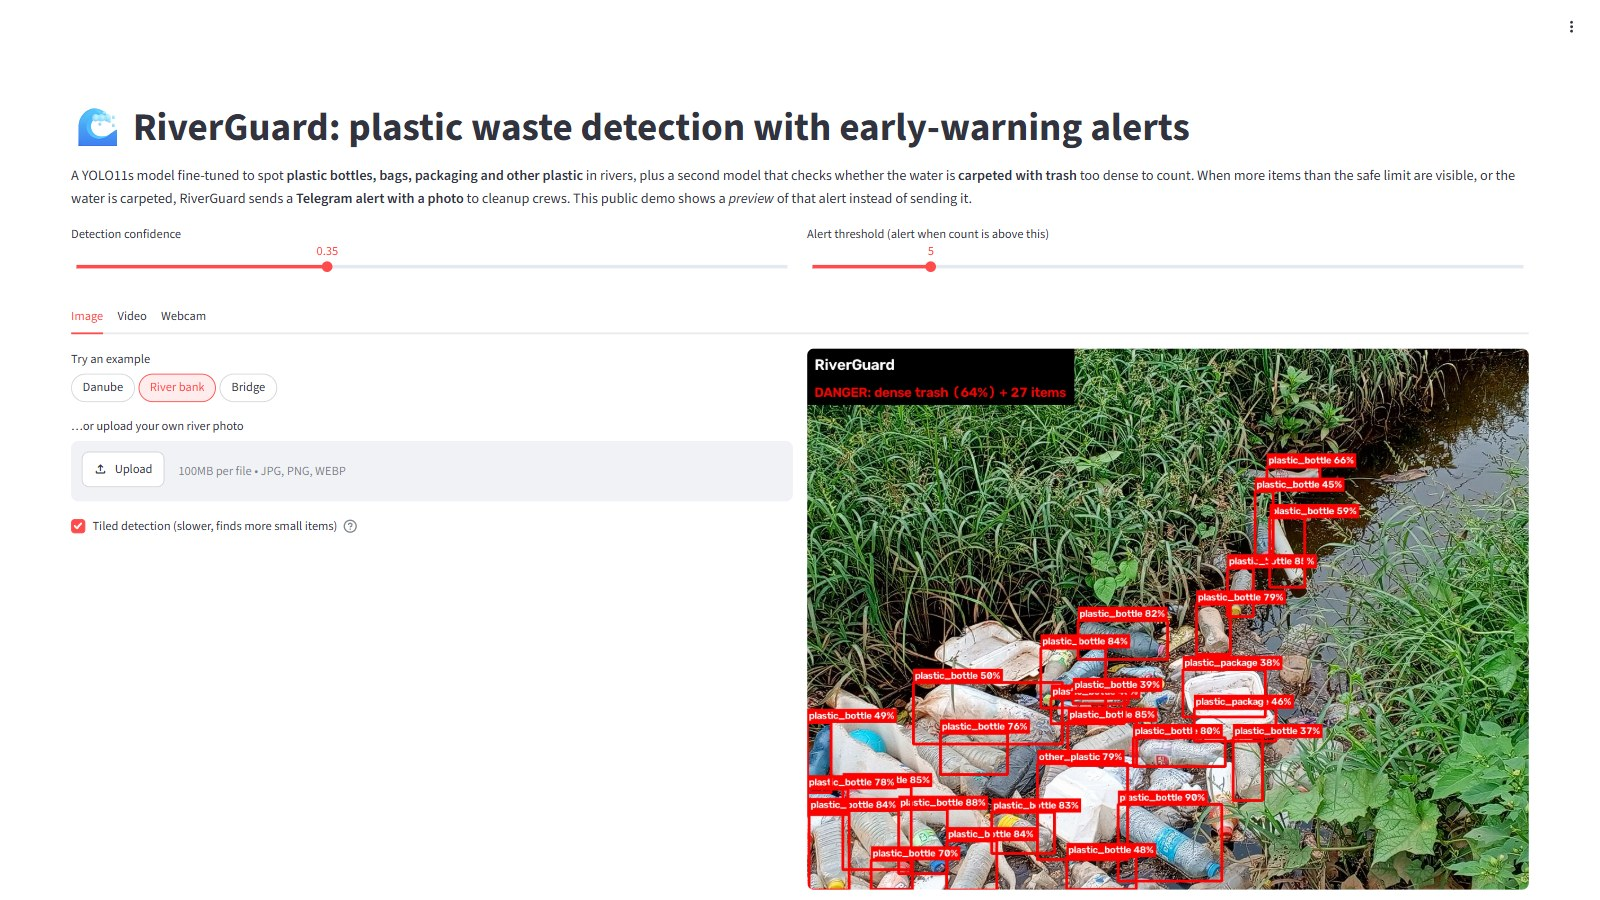
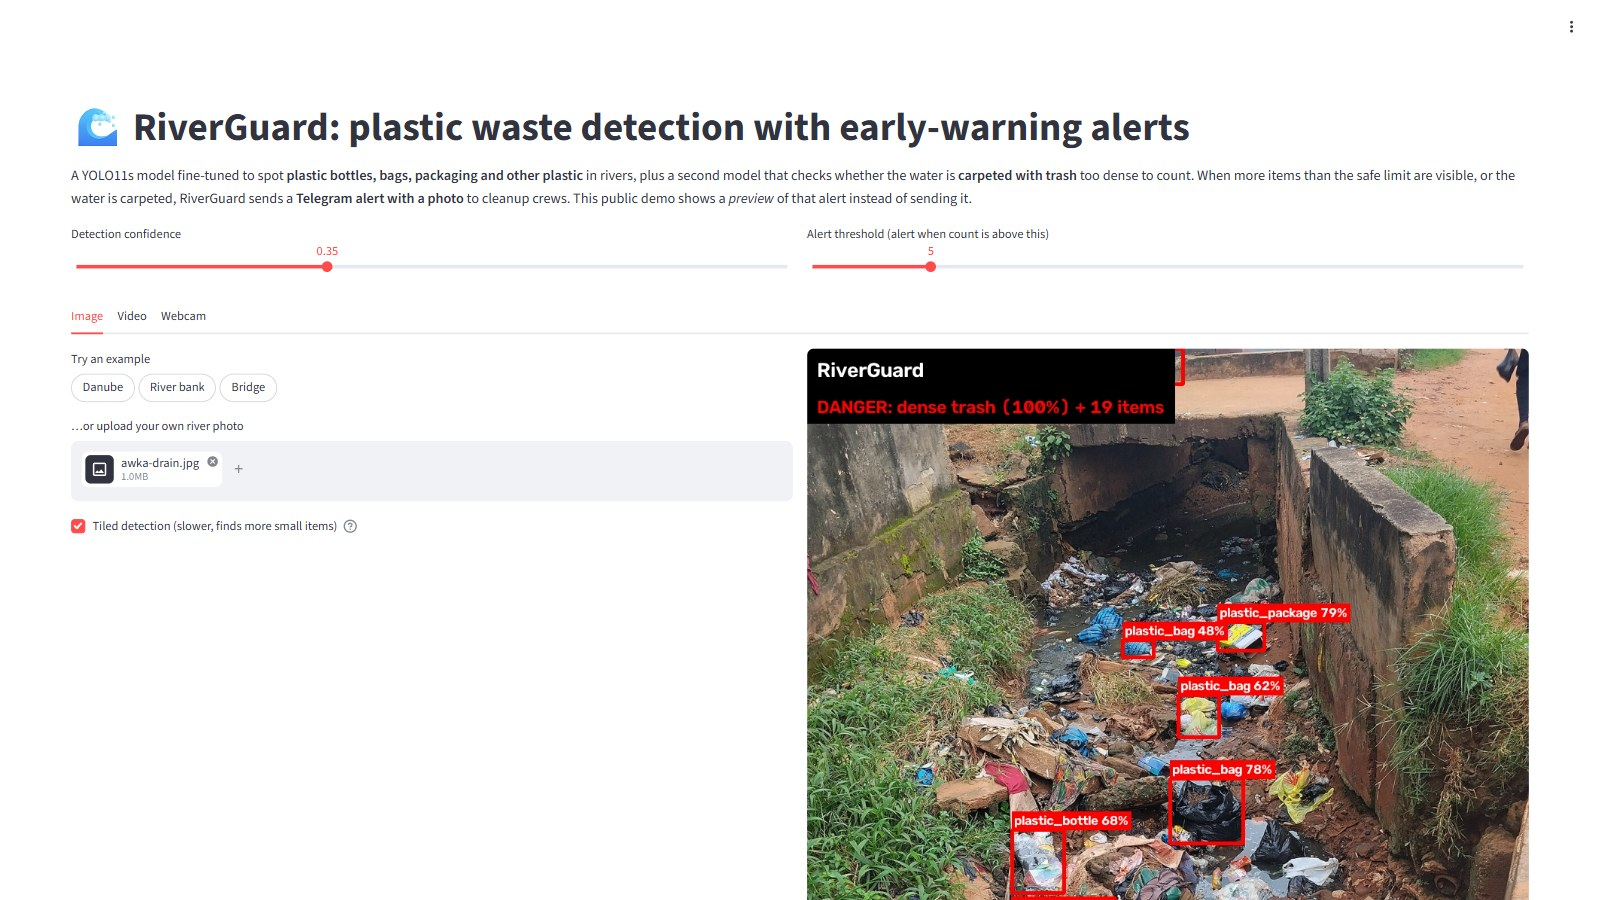
Use public-domain photos in the RiverGuard screenshots, drop the credit
The screenshots now show two CC0 photos (Wikimedia Commons: a trash-clogged
drain in Awka; Flickr: the Brunei water village), which need no attribution,
so the photo credit line at the bottom of the page is removed.

diff --git a/script.js b/script.js
@@ -1,7 +1,7 @@
 const projects = [
   { title: "Heart Disease Detection Using SVM", description: "Clinical decision support system for early heart disease risk detection using SVM-RBF.", tags: ["Python", "Streamlit", "Scikit-learn", "Pandas", "NumPy", "Joblib"], images: ["images/Heart Disease Project1.png", "images/Heart Disease Project2.png"], github: "https://github.com/Alb138/heart-disease-detection-ml", demo: "https://heart-disease-detection-ml-app.streamlit.app/" },
   { title: "Face Attendance System using Computer Vision and Flask", description: "Face Attendance System using Computer Vision and Flask. The system performs face registration, face recognition, and attendance tracking using OpenCV (LBPH Face Recognizer), Flask backend, SQLite database, and webcam integration.", tags: ["Python", "Flask", "OpenCV", "NumPy", "SQLite", "React", "SQLAlchemy"], images: ["images/Computer Vision Project1.png", "images/Computer Vision Project2.png", "images/Computer Vision Project3.png", "images/Computer Vision Project4.png"], github: "https://github.com/stephaniee06/attendance-face-recognition.git", demo: "https://drive.google.com/file/d/1yIAH4NULWNdoLlD8ft3EfRnmaJjDx99n/view?usp=sharing" },
-  { title: "RiverGuard: Object Detection AI For Plastic Waste Detection", description: "Detects floating plastic in river photos, videos and webcam feeds with a fine-tuned YOLO11 model, plus a second classifier that spots trash too dense to count. When a river passes its safe limit, it sends a Telegram early-warning alert with an evidence photo.", tags: ["Python", "YOLO11", "PyTorch", "OpenCV", "Streamlit", "Telegram Bot API"], images: ["images/RiverGuard Project1.jpg", "images/RiverGuard Project2.jpg", "images/RiverGuard Project3.jpg"], alts: ["RiverGuard web demo flagging a trash-filled river bank as DANGER: dense trash plus 27 items", "Preview of the Telegram alert RiverGuard sends, with the annotated photo and item counts", "RiverGuard marking a river with two bottles and a canister as SAFE: 3 items"], github: "https://github.com/Alb138/RiverGuard", demo: "https://riverguard.streamlit.app/" },
+  { title: "RiverGuard: Object Detection AI For Plastic Waste Detection", description: "Detects floating plastic in river photos, videos and webcam feeds with a fine-tuned YOLO11 model, plus a second classifier that spots trash too dense to count. When a river passes its safe limit, it sends a Telegram early-warning alert with an evidence photo.", tags: ["Python", "YOLO11", "PyTorch", "OpenCV", "Streamlit", "Telegram Bot API"], images: ["images/RiverGuard Project1.jpg", "images/RiverGuard Project2.jpg", "images/RiverGuard Project3.jpg"], alts: ["RiverGuard web demo flagging a drain clogged with plastic bags as DANGER: dense trash plus 19 items", "Preview of the Telegram alert RiverGuard sends, with the annotated photo and item counts", "RiverGuard marking a clean river with houses on stilts as SAFE: 0 items"], github: "https://github.com/Alb138/RiverGuard", demo: "https://riverguard.streamlit.app/" },
 ];
 
 const awards = [

diff --git a/index.html b/index.html
@@ -95,7 +95,6 @@
     </main>
 
     <footer class="footer container"><span>© 2026 Albert</span><span>Engineering the future with AI.</span></footer>
-    <p class="photo-credits container">RiverGuard screenshots use photos by <a href="https://commons.wikimedia.org/wiki/File:Nature%E2%80%99s_Silent_Struggle.jpg" target="_blank" rel="noopener noreferrer">Jemir Shamir</a> (<a href="https://creativecommons.org/licenses/by-sa/4.0/" target="_blank" rel="noopener noreferrer">CC BY-SA 4.0</a>) and <a href="https://www.flickr.com/photos/26344495@N05/51142599174" target="_blank" rel="noopener noreferrer">Ivan Radic</a> (<a href="https://creativecommons.org/licenses/by/2.0/" target="_blank" rel="noopener noreferrer">CC BY 2.0</a>).</p>
     <script src="script.js"></script>
   </body>
 </html>

diff --git a/style.css b/style.css
@@ -116,6 +116,3 @@ main,.footer{position:relative;z-index:1}
 .award-points{margin:14px 0 0;padding-left:18px;color:var(--mute);font-size:12px;line-height:1.6}
 .award-points li+li{margin-top:8px}
 @media(max-width:700px){.award-points{font-size:13px}}
-.photo-credits{margin-top:-30px;padding-bottom:30px;color:var(--mute);opacity:.7;font:8px/1.6 var(--mono)}
-.photo-credits a{text-decoration:underline;text-underline-offset:2px}
-.photo-credits a:hover{color:var(--accent2)}
